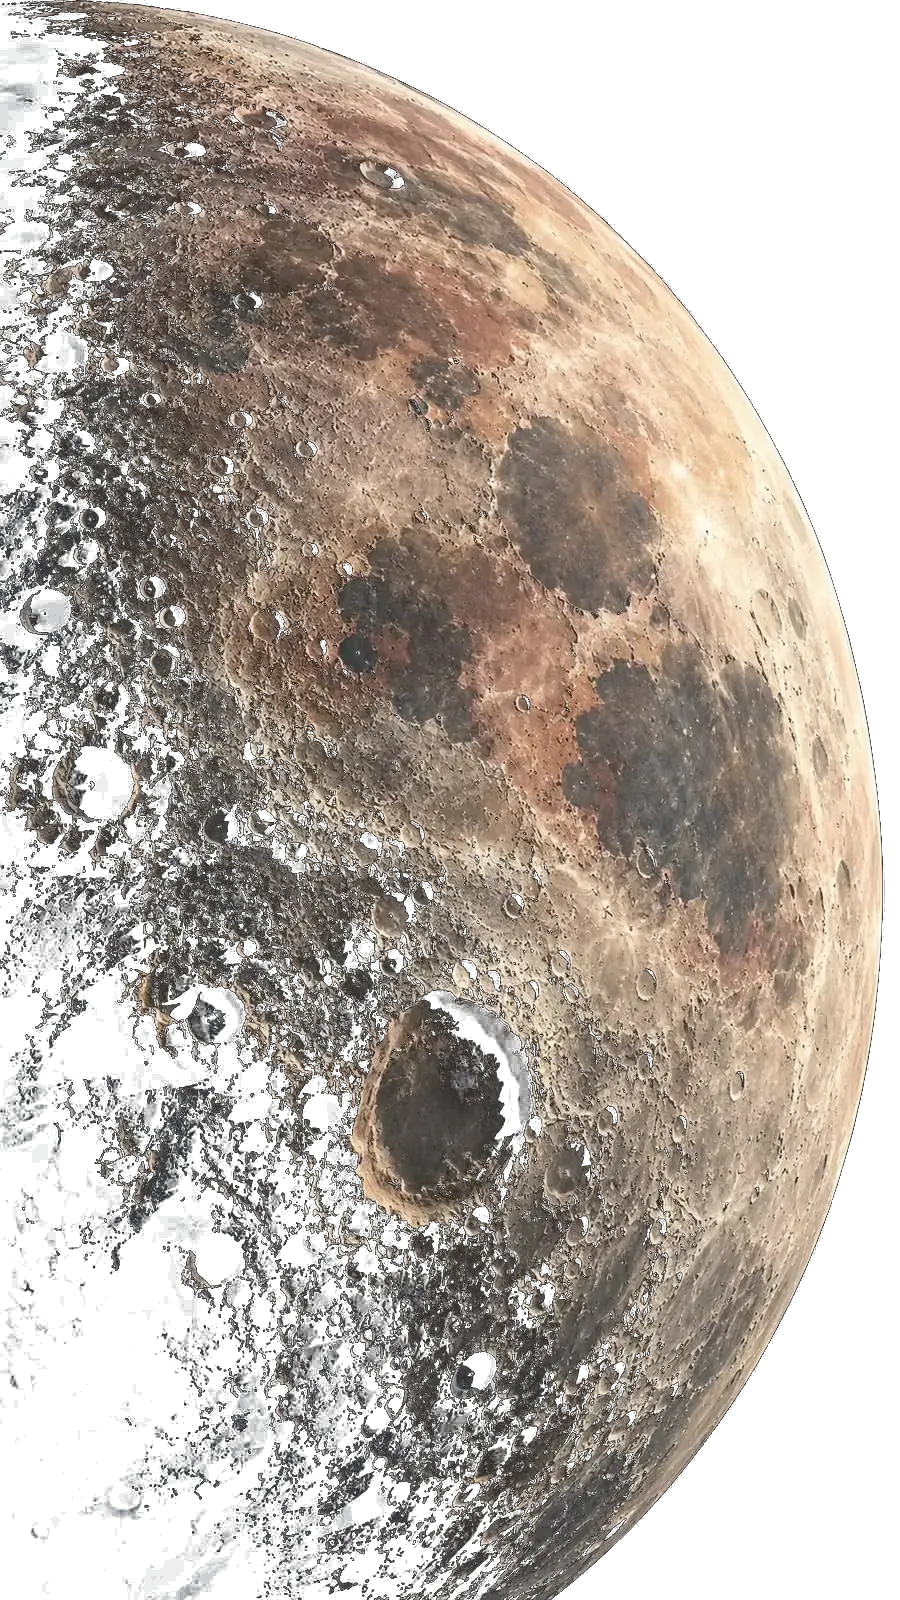
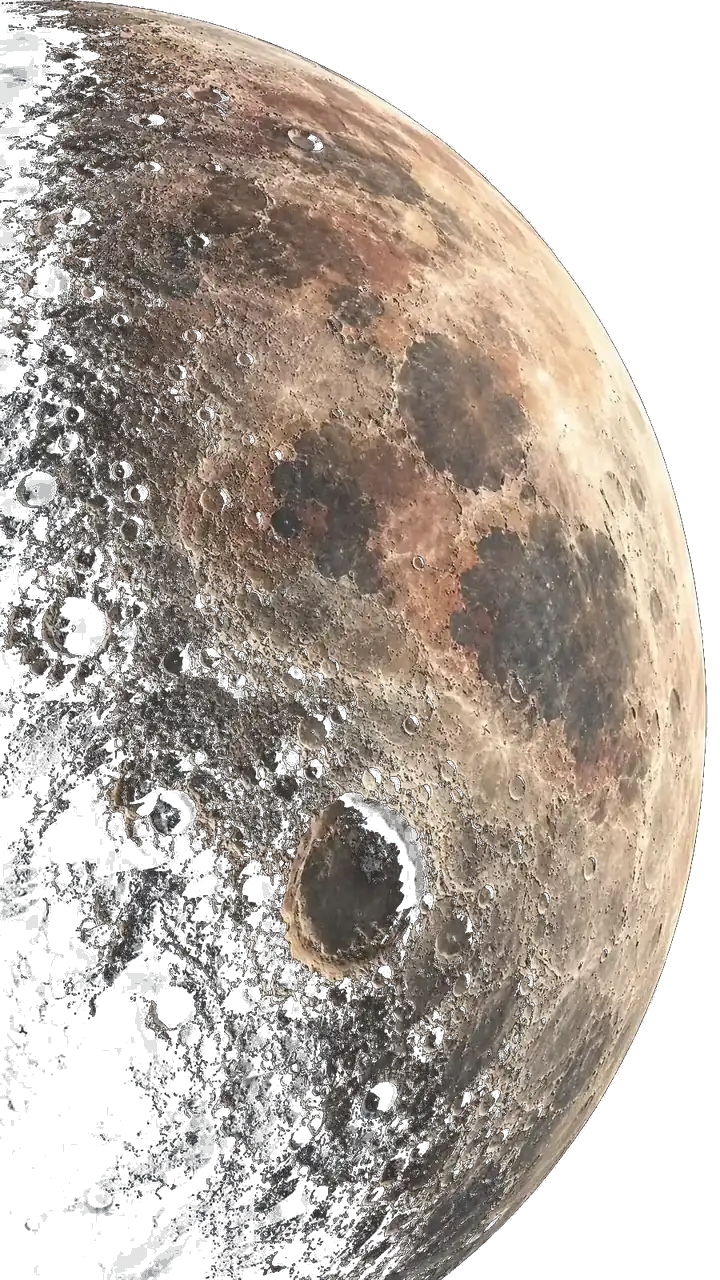
perf(web): lazy-load the tool page and shrink two heavy landing images
The tool page now loads only when opened (landing JS 396 -> 233 KB).
eclipse.webp 437 -> 201 KB and moon.webp 402 -> 242 KB, resized to the
sizes they render at.

diff --git a/web/src/app/App.tsx b/web/src/app/App.tsx
@@ -1,3 +1,4 @@
+import { Suspense, lazy } from 'react'
 import {
   CallToAction,
   Connector,
@@ -16,7 +17,8 @@ import {
 } from '../features/landing/index.ts'
 import { useData } from '../shared/hooks/useData.ts'
 import { useRoute } from '../shared/hooks/useRoute.ts'
-import { ToolPage } from './ToolPage.tsx'
+
+const ToolPage = lazy(() => import('./ToolPage.tsx').then((module) => ({ default: module.ToolPage })))
 
 function Landing() {
   const state = useData()
@@ -58,5 +60,11 @@ function Landing() {
 }
 
 export function App() {
-  return useRoute() === 'tool' ? <ToolPage /> : <Landing />
+  return useRoute() === 'tool' ? (
+    <Suspense fallback={null}>
+      <ToolPage />
+    </Suspense>
+  ) : (
+    <Landing />
+  )
 }
